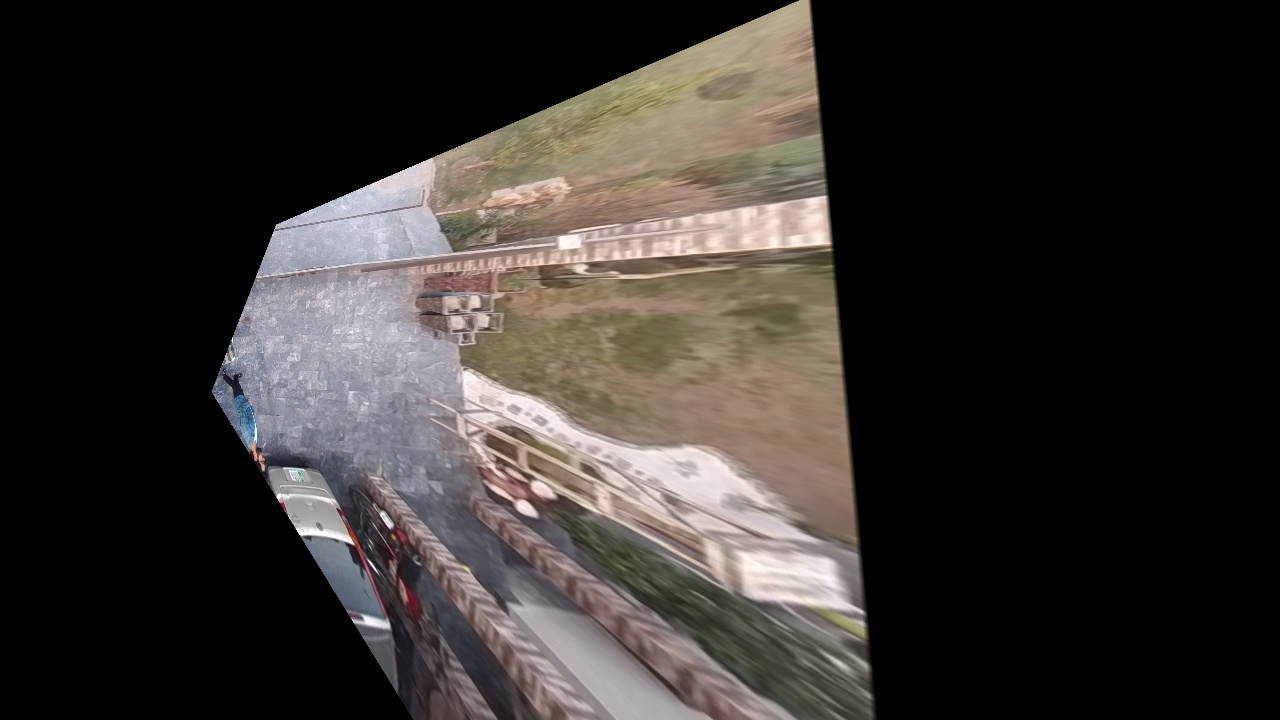
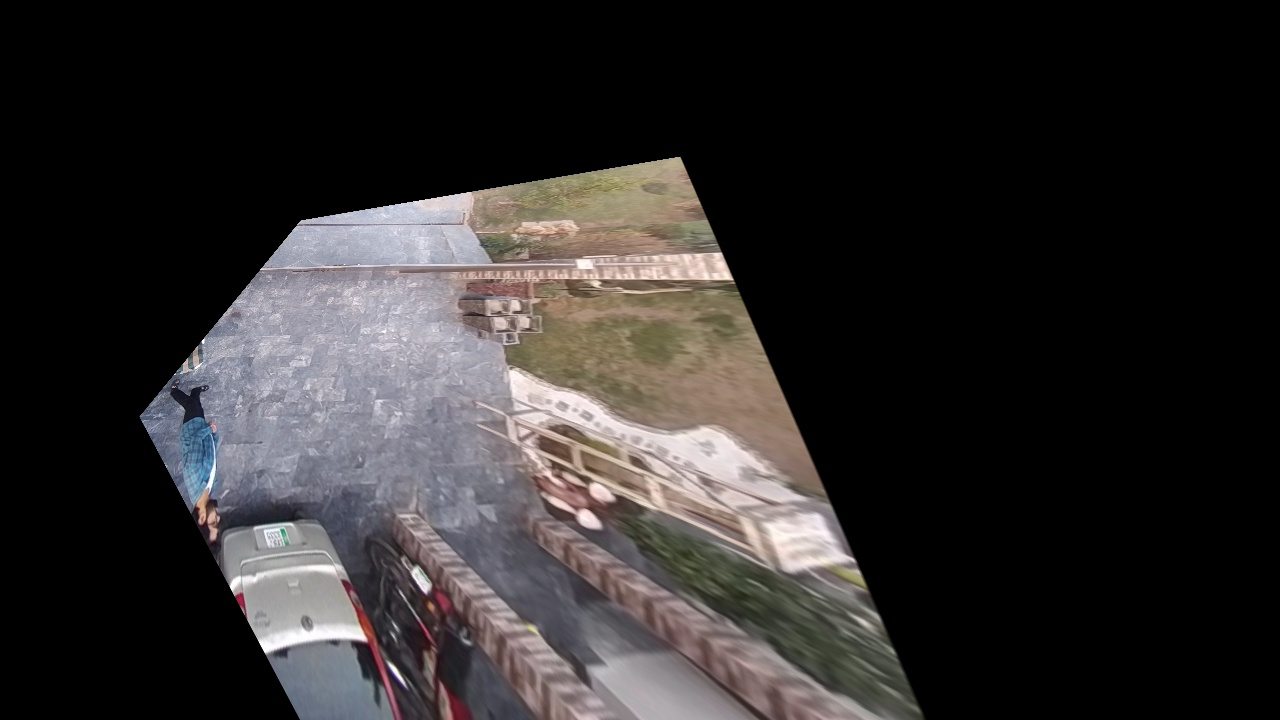
Warping before Stiching

Changed region(s): [[0.0938, 0.0, 0.7188, 1.0]]

diff --git a/templates/offline.html b/templates/offline.html
@@ -6,13 +6,14 @@
   <h1>Mall Video Surveillance</h1>
     <div>
         <br>
-        <form id="upload-file" method="post" enctype="multipart/form-data">
-            <label for="imageUpload" class="upload-label">
-                Select File:
-            </label>
-            <input type="file" name="file" id="imageUpload" accept=".mp4">
-            <input type=submit value=Upload>
-        </form>
+        <h1>Live Feed</h1>
+{#        <form id="upload-file" method="post" enctype="multipart/form-data">#}
+{#            <label for="imageUpload" class="upload-label">#}
+{#                Select File:#}
+{#            </label>#}
+{#            <input type="file" name="file" id="imageUpload" accept=".mp4">#}
+{#            <input type=submit value=Upload>#}
+{#        </form>#}
         {% if filename1 and filename2 %}
             <img src="{{ url_for('video', filename1=filename1, filename2=filename2, filename3=filename3) }}">
         {% endif %}

diff --git a/app.py b/app.py
@@ -1,37 +1,36 @@
 import os
 import threading
+from datetime import datetime
 
 import cv2
 import numpy as np
-from flask import Flask, Response, render_template, request, redirect, flash, url_for
+from flask import Flask
+from flask import Response, render_template, request, redirect, flash, url_for
+from flask_sqlalchemy import SQLAlchemy
 from werkzeug.utils import secure_filename
 
 from utils import get_video_type, get_dims, STD_DIMENSIONS
 from yolo.yolo import YOLO
 
-
-H1 = np.array([
-    [-4.27399796e-01, 1.40282390e-01, 6.87836375e+02],
-    [7.21461165e-02, 6.25402709e-01, 1.58922825e+02],
-    [-7.49957146e-04, 2.30730214e-03, 1.00000000e+00]
-])
-
-H2 = np.array([
-    [2.96918550e-01, 1.69874720e+00, -1.41966972e+02],
-    [-3.71748569e-01,  8.56329387e-01, 3.30452853e+02],
-    [-1.92530358e-04, 2.88393061e-03, 1.00000000e+00]
-])
-
-# H3 = np.array([
-#     [2.05922076e+00, 1.30011514e+01, -2.81893694e+03],
-#     [-1.89580564e+00, 7.09821542e+00, 1.29444617e+03],
-#     [1.26423954e-03, 2.04093995e-02, 1.00000000e+00]
-# ])
-H3 = np.array([[ 8.87417770e-01,6.78122356e+00, -1.33642387e+03],
- [-1.10018243e+00,3.66039041e+00,7.94978181e+02],
- [ 3.13098076e-04,1.01824975e-02,1.00000000e+00]])
-
 app = Flask(__name__)
+app.config['SQLALCHEMY_TRACK_MODIFICATIONS'] = False
+app.config['SQLALCHEMY_DATABASE_URI'] = 'sqlite:////tmp/survillance.db'
+db = SQLAlchemy(app)
+
+
+class Object(db.Model):
+    id = db.Column(db.Integer, primary_key=True)
+    x = db.Column(db.Integer)
+    y = db.Column(db.Integer)
+    w = db.Column(db.Integer)
+    h = db.Column(db.Integer)
+    name = db.Column(db.String(80))
+    source = db.Column(db.String(200))
+    frame_no = db.Column(db.Integer)
+
+    def __repr__(self):
+        return f'<Object x: {self.x}, y: {self.y}, w:{self.w}, h:{self.h}, class: {self.name}>'
+
 
 lock1 = threading.Lock()
 stream_output1 = [np.zeros((100, 100)), ]
@@ -46,6 +45,28 @@ stream_output3 = [np.zeros((100, 100)), ]
 web_cam1 = cv2.VideoCapture()  # web-cam feed
 mob_cam2 = cv2.VideoCapture()  # mobile cam 1
 mob_cam3 = cv2.VideoCapture()  # mobile cam 2
+
+
+FPS = 2
+
+
+H1 = np.array([
+    [-4.27399796e-01, 1.40282390e-01, 6.87836375e+02],
+    [7.21461165e-02, 6.25402709e-01, 1.58922825e+02],
+    [-7.49957146e-04, 2.30730214e-03, 1.00000000e+00]
+])
+
+H2 = np.array([
+    [2.96918550e-01, 1.69874720e+00, -1.41966972e+02],
+    [-3.71748569e-01,  8.56329387e-01, 3.30452853e+02],
+    [-1.92530358e-04, 2.88393061e-03, 1.00000000e+00]
+])
+
+H3 = np.array([
+    [8.87417770e-01, 6.78122356e+00, -1.33642387e+03],
+    [-1.10018243e+00, 3.66039041e+00, 7.94978181e+02],
+    [3.13098076e-04, 1.01824975e-02, 1.00000000e+00]
+])
 
 
 # Home page for displaying the camera feeds
@@ -74,7 +95,7 @@ def stream_video(file_path1, file_path2, file_path3, res):
             if grabbed1:
                 frame1 = cv2.resize(frame1, dimensions)
                 frame1_pred = yolo.predict(frame1.copy())
-                frame1_warp = cv2.warpPerspective(frame1_pred, H1, STD_DIMENSIONS["720p"])
+                frame1_warp = cv2.warpPerspective(frame1, H1, STD_DIMENSIONS["720p"])
 
             frame2 = np.zeros(dimensions)
             grabbed2, frame2 = vid2.read()
@@ -82,18 +103,19 @@ def stream_video(file_path1, file_path2, file_path3, res):
                 frame2 = np.rot90(frame2, 2)
                 frame2 = cv2.resize(frame2, dimensions)
                 frame2_pred = yolo.predict(frame2.copy())
-                frame2_warp = cv2.warpPerspective(frame2_pred, H2, STD_DIMENSIONS["720p"])
+                frame2_warp = cv2.warpPerspective(frame2, H2, STD_DIMENSIONS["720p"])
 
             frame3 = np.zeros(dimensions)
             grabbed3, frame3 = vid3.read()
             if grabbed3:
                 frame3 = cv2.resize(frame3, dimensions)
                 frame3_pred = yolo.predict(frame3.copy())
-                frame3_warp = cv2.warpPerspective(frame3_pred, H3, STD_DIMENSIONS["720p"])
+                frame3_warp = cv2.warpPerspective(frame3, H3, STD_DIMENSIONS["720p"])
 
 
             final = np.where(np.logical_or(np.equal(frame1_warp, 0), np.equal(frame2_warp, 0)), frame1_warp + frame2_warp, (frame1_warp + frame2_warp)/2)
             final = np.where(np.logical_or(np.equal(final, 0), np.equal(frame3_warp, 0)), final + frame3_warp, (final + frame3_warp)/2)
+
         except:
             pass
 
@@ -147,18 +169,28 @@ def offline():
 def detect_objects(source, address, filename, res, yolo, stream_output, lock):
     dimensions = get_dims(source, res)
     if filename:
-        out = cv2.VideoWriter('data/'+filename, get_video_type(filename), 12, dimensions)
-
+        out = cv2.VideoWriter('data/'+filename, get_video_type(filename), FPS, dimensions)
+    frame_no = 0
     while True:
         while not source.isOpened():
             source.open(address)
 
         try:
+            frame_no += 1
             grabbed, frame = source.read()
             frame = cv2.resize(frame, dimensions)
-            frame = yolo.predict(frame)
+
             if filename:
                 out.write(frame)
+
+            for detection in yolo.predict(frame):
+                detection['frame_no'] = frame_no
+                detection['source'] = filename
+                object = Object(**detection)
+                db.session.add(object)
+
+            db.session.commit()
+
         except:
             frame = None
 
@@ -202,22 +234,30 @@ def cam3():
                     mimetype="multipart/x-mixed-replace; boundary=frame")
 
 
-# cam1_t = threading.Thread(target=detect_objects, args=(web_cam1, 0, 'web_cam1.avi', 'custom',
-#                                                        YOLO(), stream_output1, lock1))  # Thread for camera 2
-# cam1_t.daemon = True
-# cam1_t.start()
-#
-#
-# cam2_t = threading.Thread(target=detect_objects, args=(mob_cam2, 'http://10.47.27.57:8080/video', 'mob_vid2.avi', 'custom',
-#                                                        YOLO(), stream_output2, lock2))  # Thread for camera 3
-# cam2_t.daemon = True
-# cam2_t.start()
-#
-#
-# cam3_t = threading.Thread(target=detect_objects, args=(mob_cam3, 'http://192.168.100.7:8080/video', 'mob_vid3.avi', 'custom',
-#                                                        YOLO(), stream_output3, lock3))  # Thread for camera 2
-# cam3_t.daemon = True
-# cam3_t.start()
+today = datetime.now()
+suffix = today.strftime('%m_%d_%Y_%H')
+
+
+cam1_t = threading.Thread(target=detect_objects, args=(web_cam1, 0, f'cam1_{suffix}.avi', 'custom',
+                                                       YOLO(), stream_output1, lock1))  # Thread for camera 2
+cam1_t.daemon = True
+cam1_t.start()
+
+
+cam2_t = threading.Thread(target=detect_objects, args=(mob_cam2,
+                                                       0,  # 'http://10.47.27.57:8080/video',
+                                                       f'cam2_{suffix}.avi', 'custom',
+                                                       YOLO(), stream_output2, lock2))  # Thread for camera 3
+cam2_t.daemon = True
+cam2_t.start()
+
+
+cam3_t = threading.Thread(target=detect_objects, args=(mob_cam3,
+                                                       0,  # 'http://192.168.100.7:8080/video',
+                                                       f'cam3_{suffix}.avi', 'custom',
+                                                       YOLO(), stream_output3, lock3))  # Thread for camera 2
+cam3_t.daemon = True
+cam3_t.start()
 
 
 if __name__ == '__main__':

diff --git a/yolo/yolo.py b/yolo/yolo.py
@@ -17,7 +17,7 @@ class YOLO:
         self.layer_names = self.net.getLayerNames()
         self.layer_names = [self.layer_names[i[0] - 1] for i in self.net.getUnconnectedOutLayers()]
 
-    def predict(self, frame, thresh=0.1):
+    def predict(self, frame, thresh=0.1, draw=True):
         H, W = frame.shape[:2]
         blob = cv2.dnn.blobFromImage(frame, 1 / 255.0, (416, 416), swapRB=True, crop=False)
         self.net.setInput(blob)
@@ -42,6 +42,7 @@ class YOLO:
 
         idxs = cv2.dnn.NMSBoxes(boxes, confidences, 0.5, 0.3)
 
+        detections = []
         # ensure at least one detection exists
         if len(idxs) > 0:
             # loop over the indexes we are keeping
@@ -49,11 +50,16 @@ class YOLO:
                 # extract the bounding box coordinates
                 (x, y) = (boxes[i][0], boxes[i][1])
                 (w, h) = (boxes[i][2], boxes[i][3])
-
+                detections.append({
+                    'x': x, 'y': y,
+                    'w': w, 'h': h,
+                    'name': self.classes[class_ids[i]]
+                })
                 # draw a bounding box rectangle and label on the frame
-                color = [int(c) for c in self.COLORS[class_ids[i]]]
-                cv2.rectangle(frame, (x, y), (x + w, y + h), color, 2)
-                text = "{}: {:.4f}".format(self.classes[class_ids[i]], confidences[i])
-                cv2.putText(frame, text, (x, y - 5), cv2.FONT_HERSHEY_SIMPLEX, 0.5, color, 2)
+                if draw:
+                    color = [int(c) for c in self.COLORS[class_ids[i]]]
+                    cv2.rectangle(frame, (x, y), (x + w, y + h), color, 2)
+                    text = "{}: {:.4f}".format(self.classes[class_ids[i]], confidences[i])
+                    cv2.putText(frame, text, (x, y - 5), cv2.FONT_HERSHEY_SIMPLEX, 0.5, color, 2)
 
-        return frame
+        return detections

diff --git a/temp_inside.py b/temp_inside.py
@@ -3,8 +3,8 @@ import numpy as np
 
 from utils import STD_DIMENSIONS
 
-frame_cor = [[683, 145], [634, 176], [819, 414], [986, 630], [771, 684], [455, 572], [488, 101]]
-top_cor = [[505, 362], [478, 342], [293, 356], [208, 363], [227, 321], [290, 278], [568, 295]]
+frame_cor = []
+top_cor = []
 top_view_points = np.array(top_cor)
 garden_points = np.array(frame_cor)
 
@@ -12,7 +12,7 @@ garden_points = np.array(frame_cor)
 def click_event_top(event, x, y, flags, params):
     if event == cv2.EVENT_LBUTTONDOWN:
         print(x, ' ', y)
-        top_cor.append([x,y])
+        top_cor.append([x, y])
         font = cv2.FONT_HERSHEY_SIMPLEX
         cv2.putText(top_view, str(x) + ',' +
                     str(y), (x, y), font,
@@ -36,7 +36,7 @@ cv2.imshow('top', top_view)
 cv2.setMouseCallback('top', click_event_top)
 
 
-frame = cv2.imread('data/frames/frame8.jpg')
+frame = cv2.imread('data/frames3/frame8.jpg')
 
 cv2.imshow('frame', frame)
 cv2.setMouseCallback('frame', click_event_garden)
@@ -50,13 +50,11 @@ print(top_cor)
 
 top_view_points = np.array(top_cor)
 garden_points = np.array(frame_cor)
-H = np.array([[-3.57359963e-01,7.94994755e-01,8.07096197e+02],
- [ 4.60939550e-01,1.56344954e+00, -3.55727006e+00],
- [-4.92731070e-04,5.56293572e-03,1.00000000e+00]
+H = np.array([[-0.4267572874811169, 0.12202433258793428, 679.1648279868555],
+              [0.07855525944118393, 0.5634066050345926, 156.2850020670053],
+              [-0.0007529157598914953, 0.002160243169386294, 1.0]])
 
-])
-# H = cv2.findHomography(garden_points, top_view_points)[0]
+H = cv2.findHomography(garden_points, top_view_points)[0]
 warp = cv2.warpPerspective(frame, H, STD_DIMENSIONS["720p"])
 cv2.imwrite('wrapped_inside.jpg', warp)
-print(H)
-
+print(H.tolist())

diff --git a/extract_frames.py b/extract_frames.py
@@ -1,27 +1,14 @@
-import time
-from datetime import datetime
-from imutils.video import FPS
 import cv2
 
-from utils import STD_DIMENSIONS
-
-
-from yolo.yolo import YOLO
-
 # cam = cv2.VideoCapture(0)
-cam = cv2.VideoCapture('data/raw_vids/gate.mp4')
-
-yolo = YOLO()
+cam = cv2.VideoCapture('data/raw_vids/inside.mp4')
 
 
 if __name__ == '__main__':
 
     count = 0
     while True:
-
         ret, frame = cam.read()
-        # layerOutputs = yolo.predict(frame)
-
         cv2.imshow('frame', frame)
         cv2.imwrite("data/frames3/frame%d.jpg" % count, frame)
         count += 1

diff --git a/temp_outside.py b/temp_outside.py
@@ -31,12 +31,12 @@ def click_event_garden(event, x, y, flags, params):
         cv2.imshow('frame', frame)
 
 
-top_view = cv2.imread('data/top_view_720p.jpg')
+top_view = cv2.imread('data/top_view_khala_720.jpg')
 cv2.imshow('top', top_view)
 cv2.setMouseCallback('top', click_event_top)
 
 
-frame = cv2.imread('data/frame2/frame8.jpg')
+frame = cv2.imread('data/frames/frame8.jpg')
 
 cv2.imshow('frame', frame)
 cv2.setMouseCallback('frame', click_event_garden)
